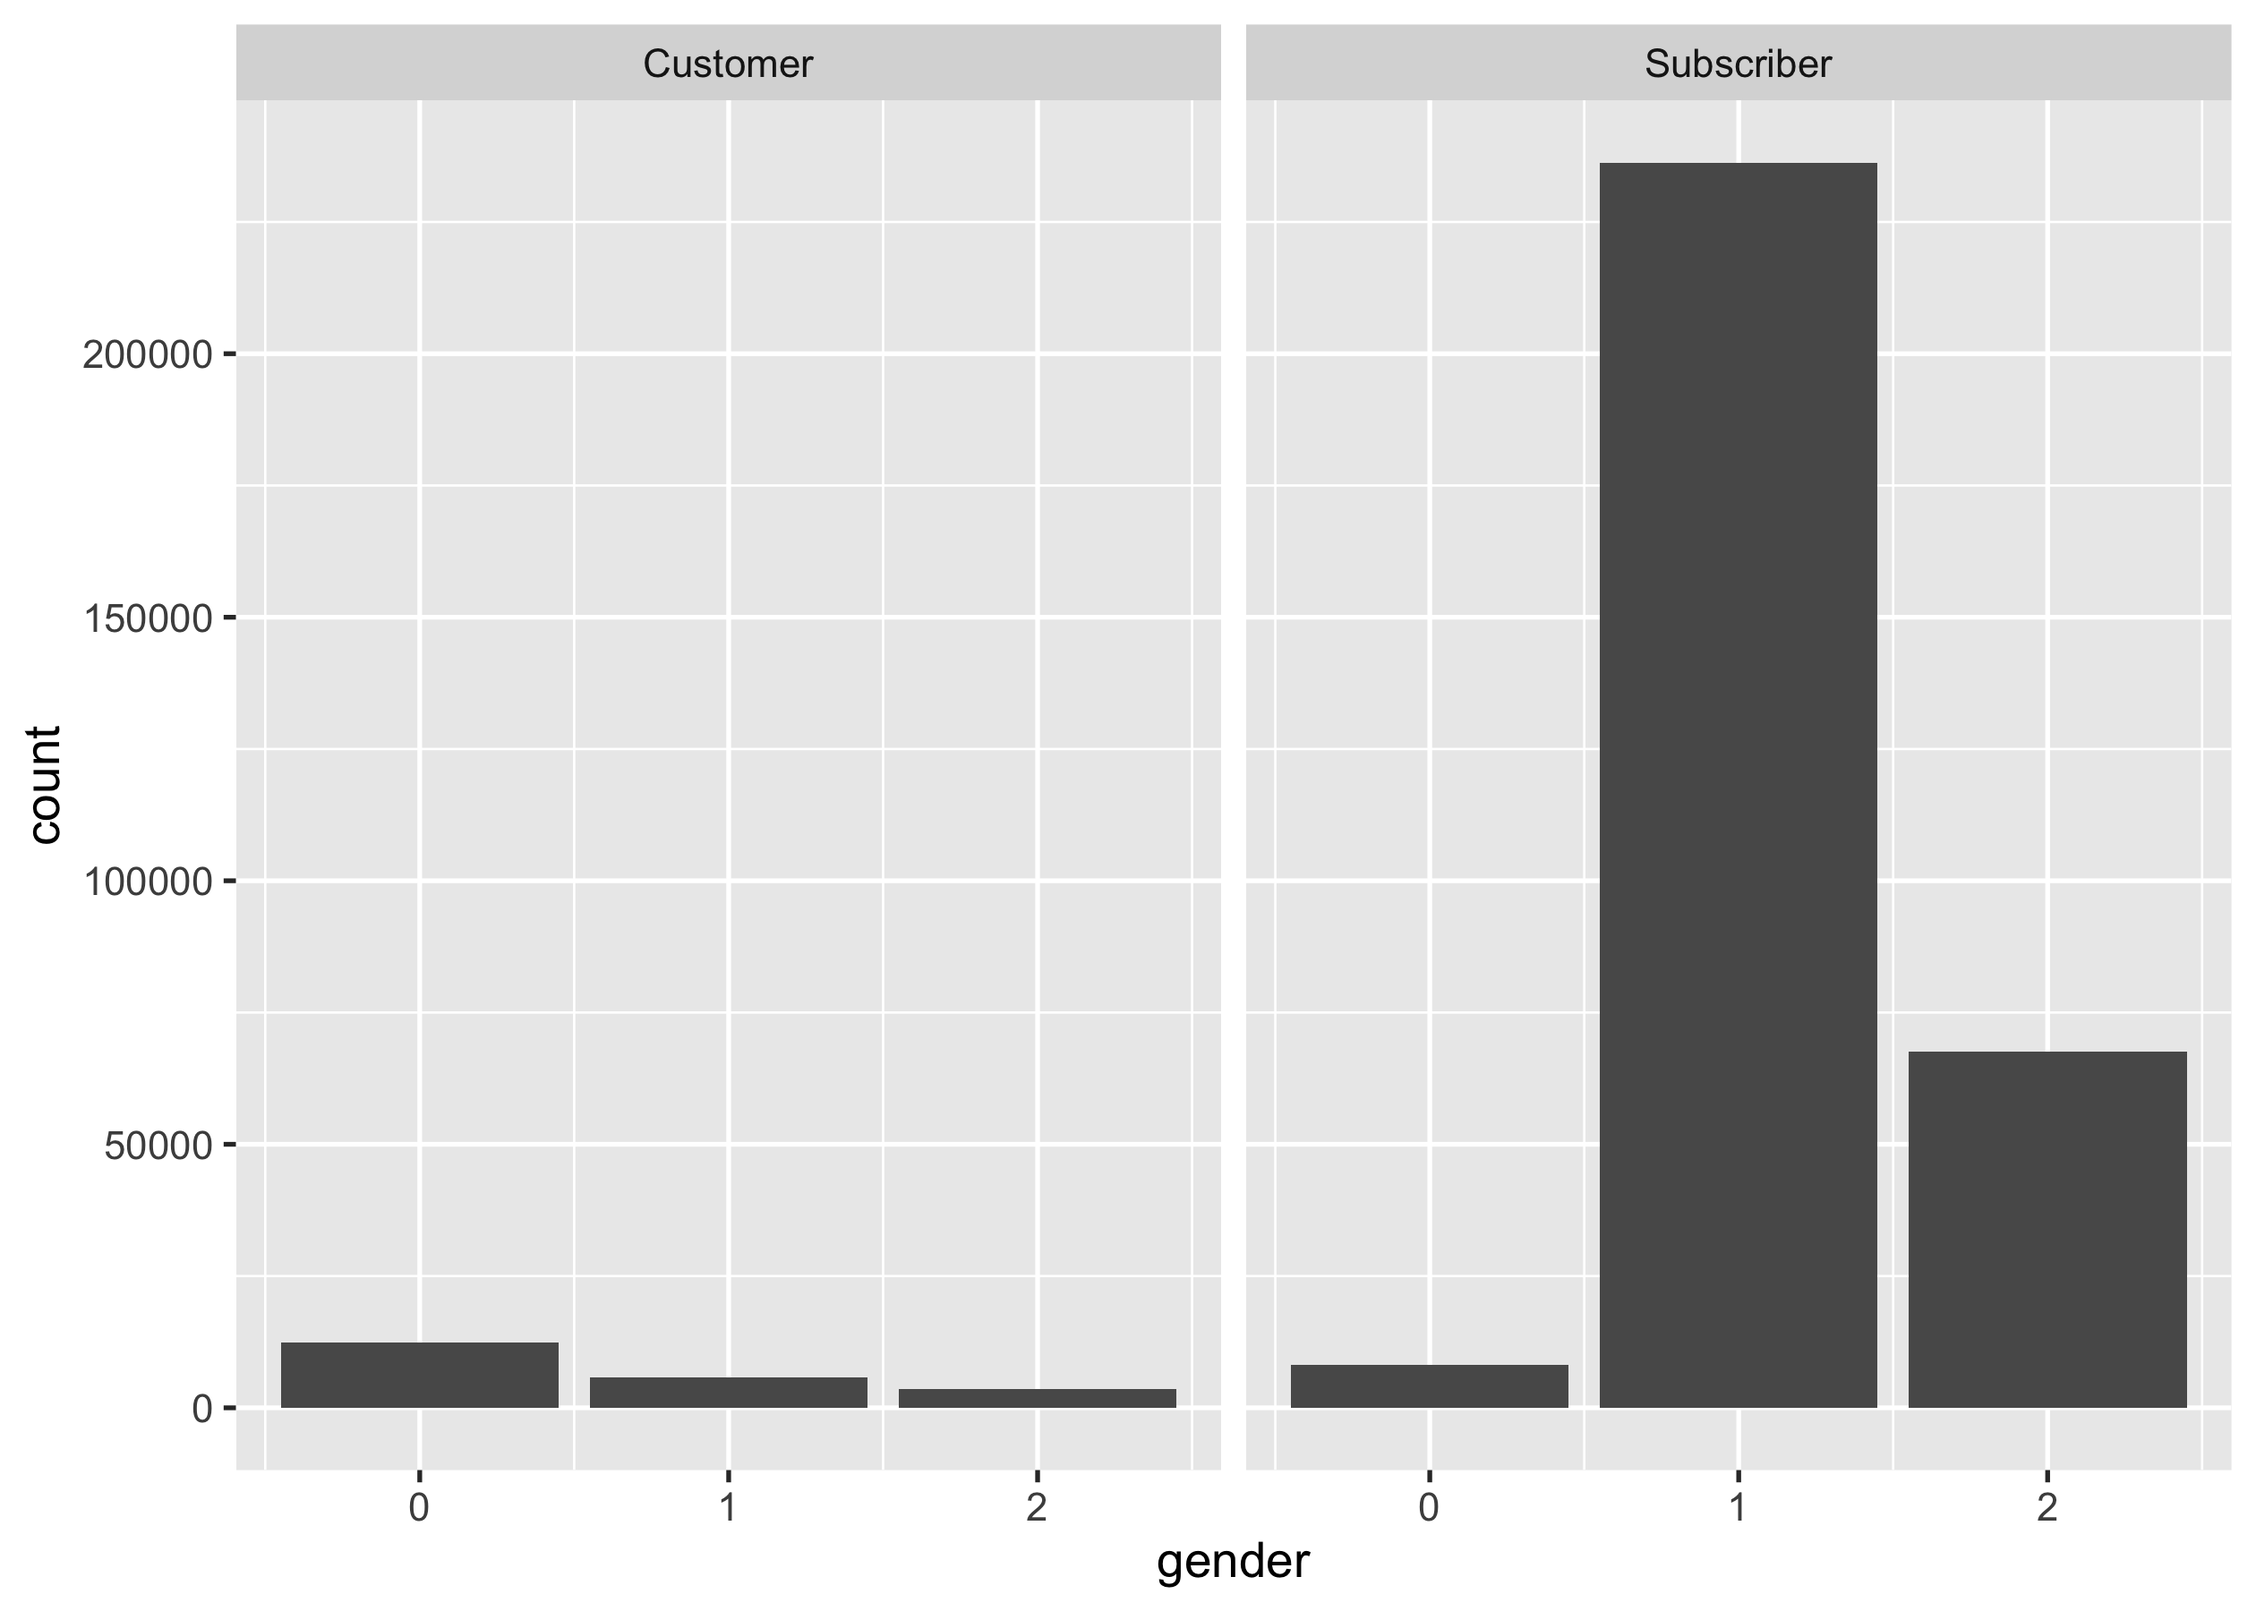
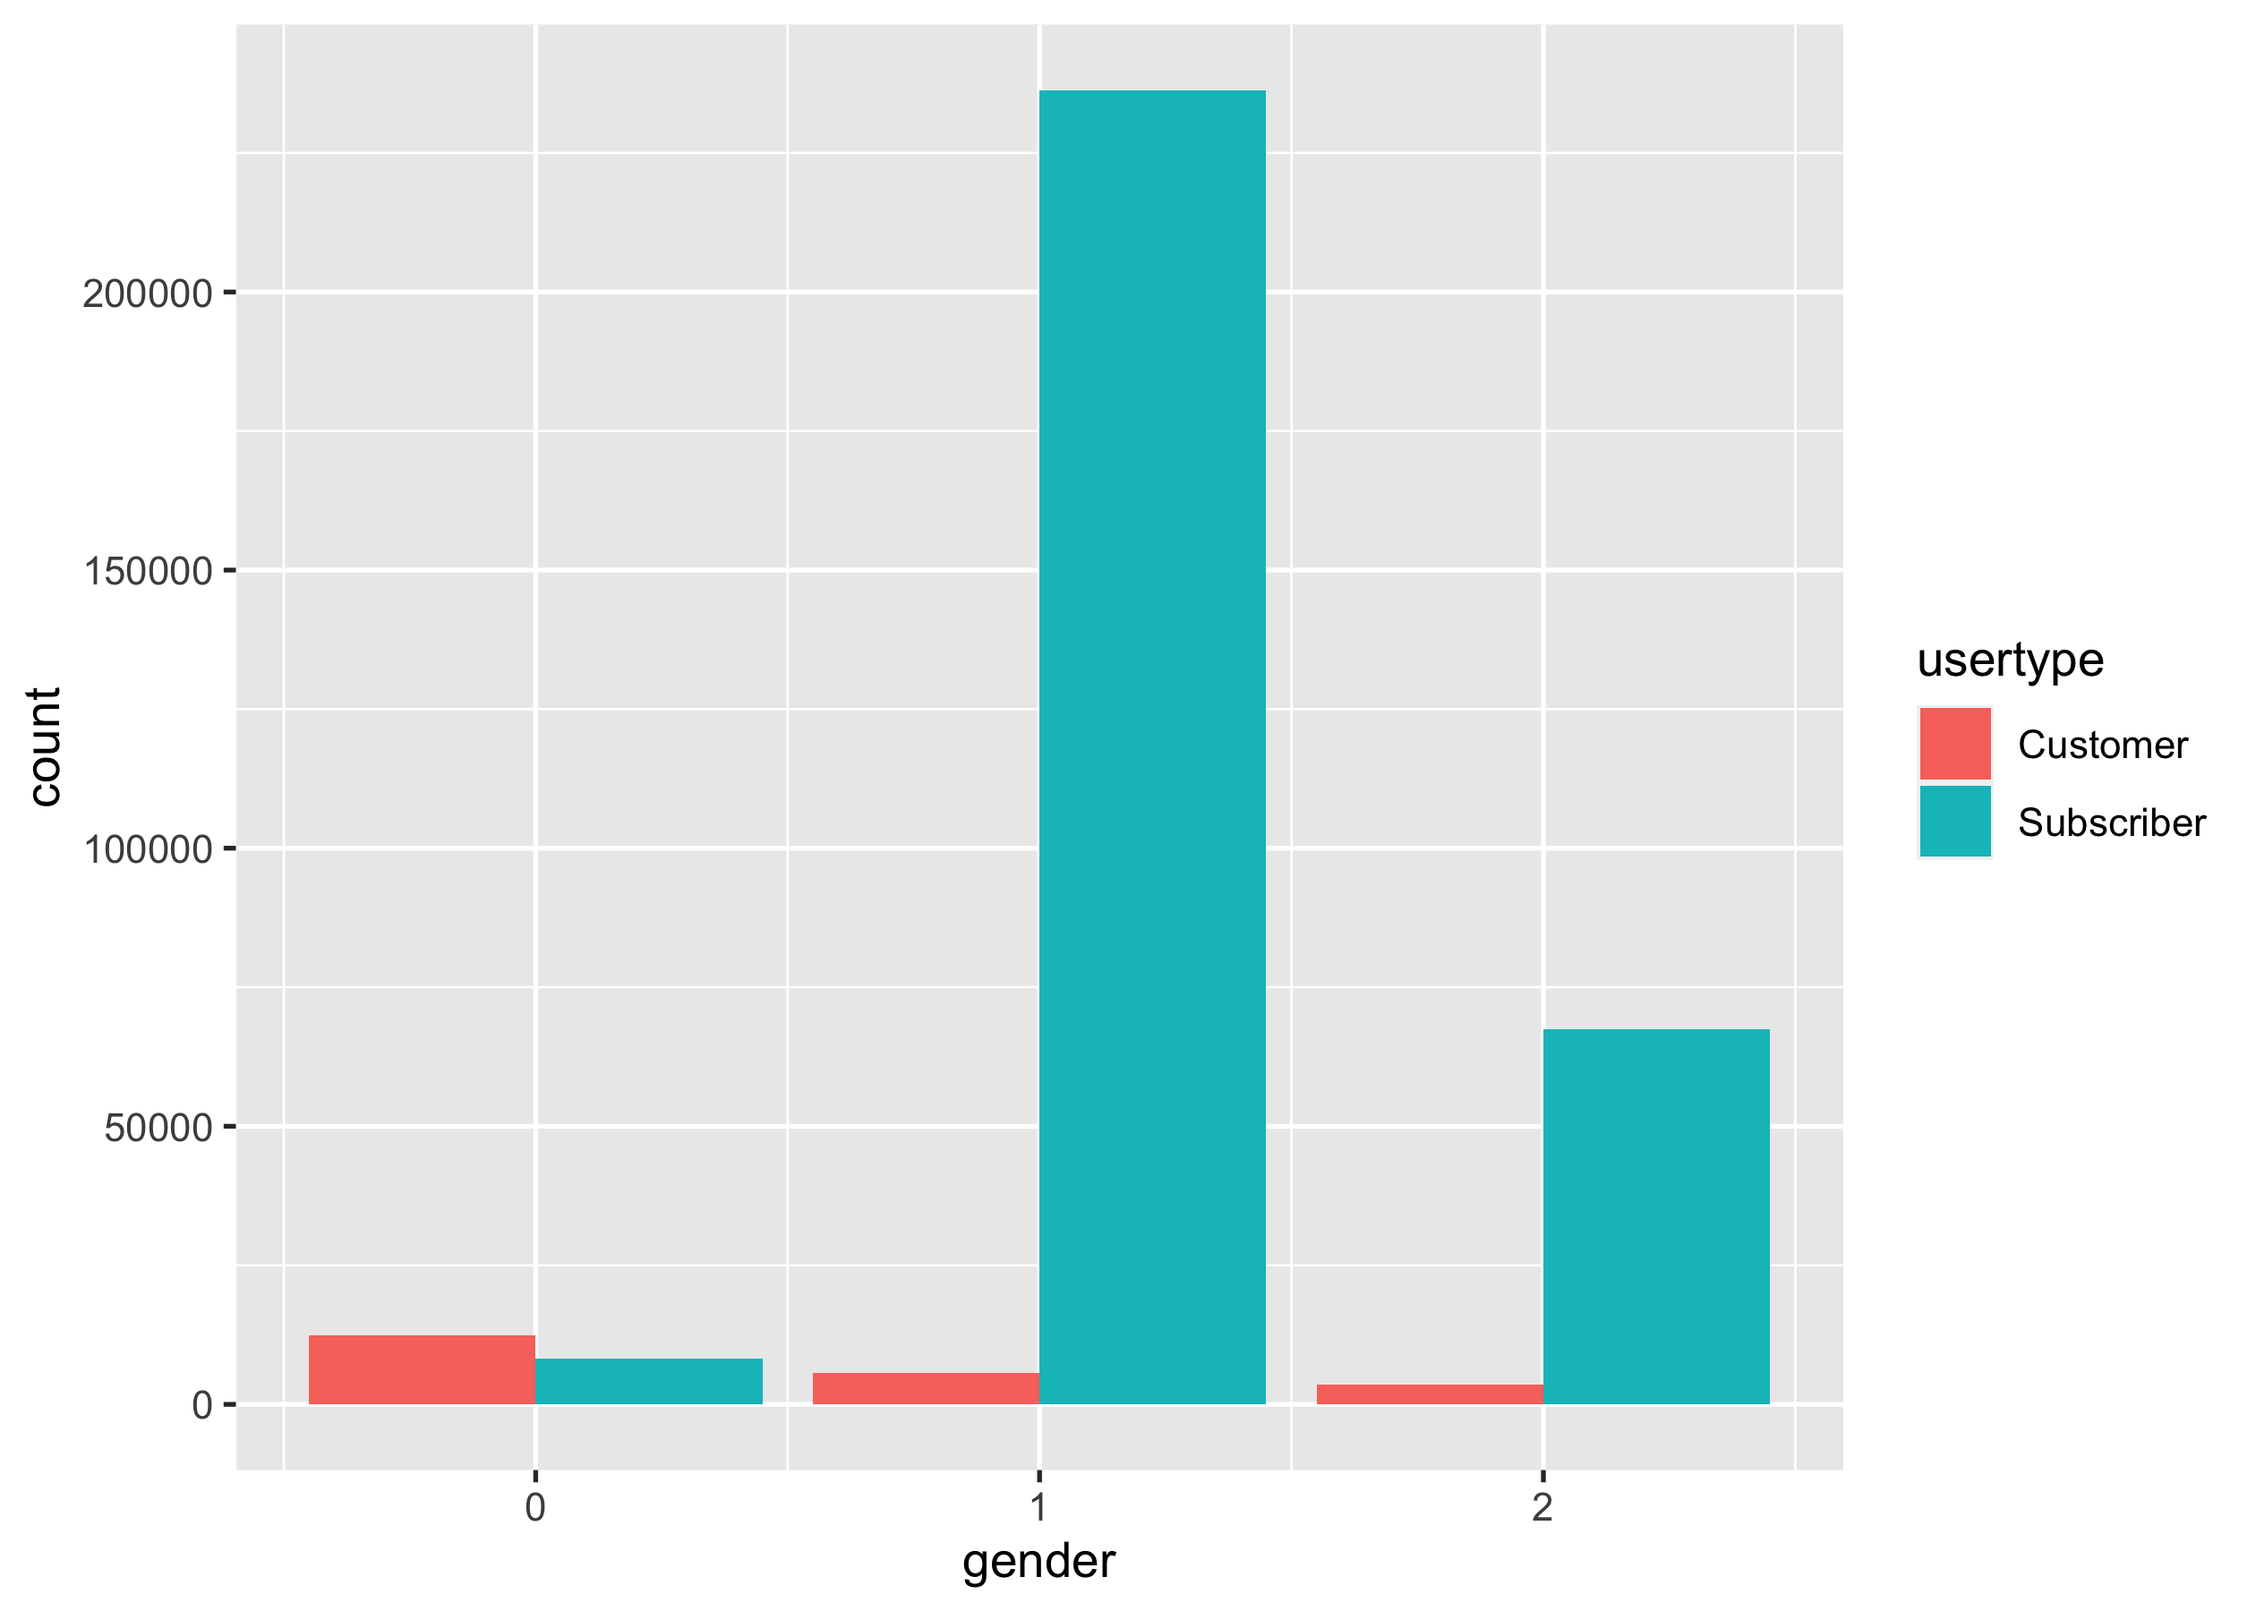
updated a1

diff --git a/content/assignments/assignment1.md b/content/assignments/assignment1.md
@@ -167,9 +167,9 @@ one-time customers. Present a bar chart for the tallies of trips by each
 ### Question 7
 
 You’re interested in riding behaviours of users of different genders
-conditional on their user types. Produce a small multiples of bar charts
-to display the tallies of trips by each `gender`, faceted by `usertype`
-on columns. You should end up with a **ggplot** object called `p3`.
+based on their user types. Produce a side-by-side bar charts to display
+the tallies of trips by each `gender`, grouped by `usertype`. You should
+end up with a **ggplot** object called `p3`.
 
     p3
 
